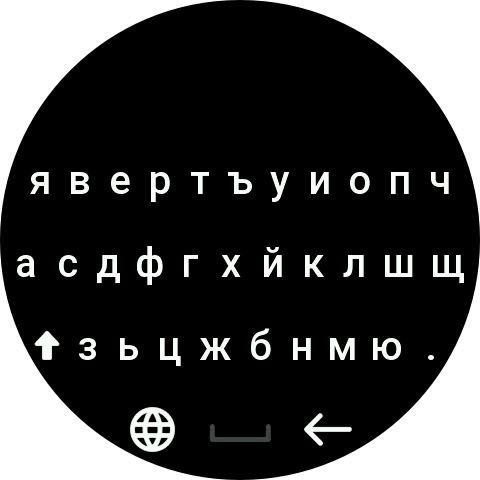
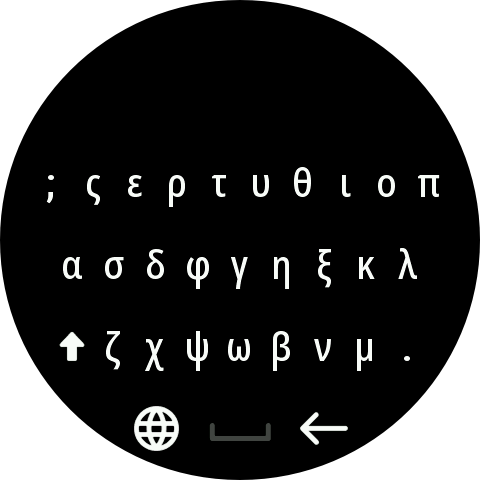
edit readme and screenshots

diff --git a/README.md b/README.md
@@ -1,17 +1,25 @@
-# BGPT Keyboard
+# Greek Keyboard
 
-Bulgarian Phonetic Traditional keyboard for Zepp OS.
+Greek keyboard with a traditional Greek QWERTY layout for Zepp OS.
 
-BGPT Keyboard provides a Bulgarian phonetic traditional keyboard for compatible
+Greek Keyboard provides a traditional Greek layout for compatible
 Zepp OS devices.
 
 ## Features
 
-- Bulgarian phonetic traditional keyboard layout
+- Greek keyboard with a traditional Greek QWERTY layout
 - Lowercase and uppercase input
-- Long press `и` for `ѝ`
-- Long press `.` for `,`
+- Longpress ';' for ':'
+- Longpress '.' for ','
+- Longpress 'ε' for 'έ'
+- Longpress 'υ' for 'ύ'
+- Longpress 'ο' for 'ό'
+- Longpress 'ι' for 'ί'
+- Longpress 'η' for 'ή'
+- Longpress 'α' for 'ά'
+- Longpress 'ω' for 'ώ'
 - Integration with the Zepp OS input method system
+- English and Greek interface, depending on the watch language
 
 ## Compatibility
 
